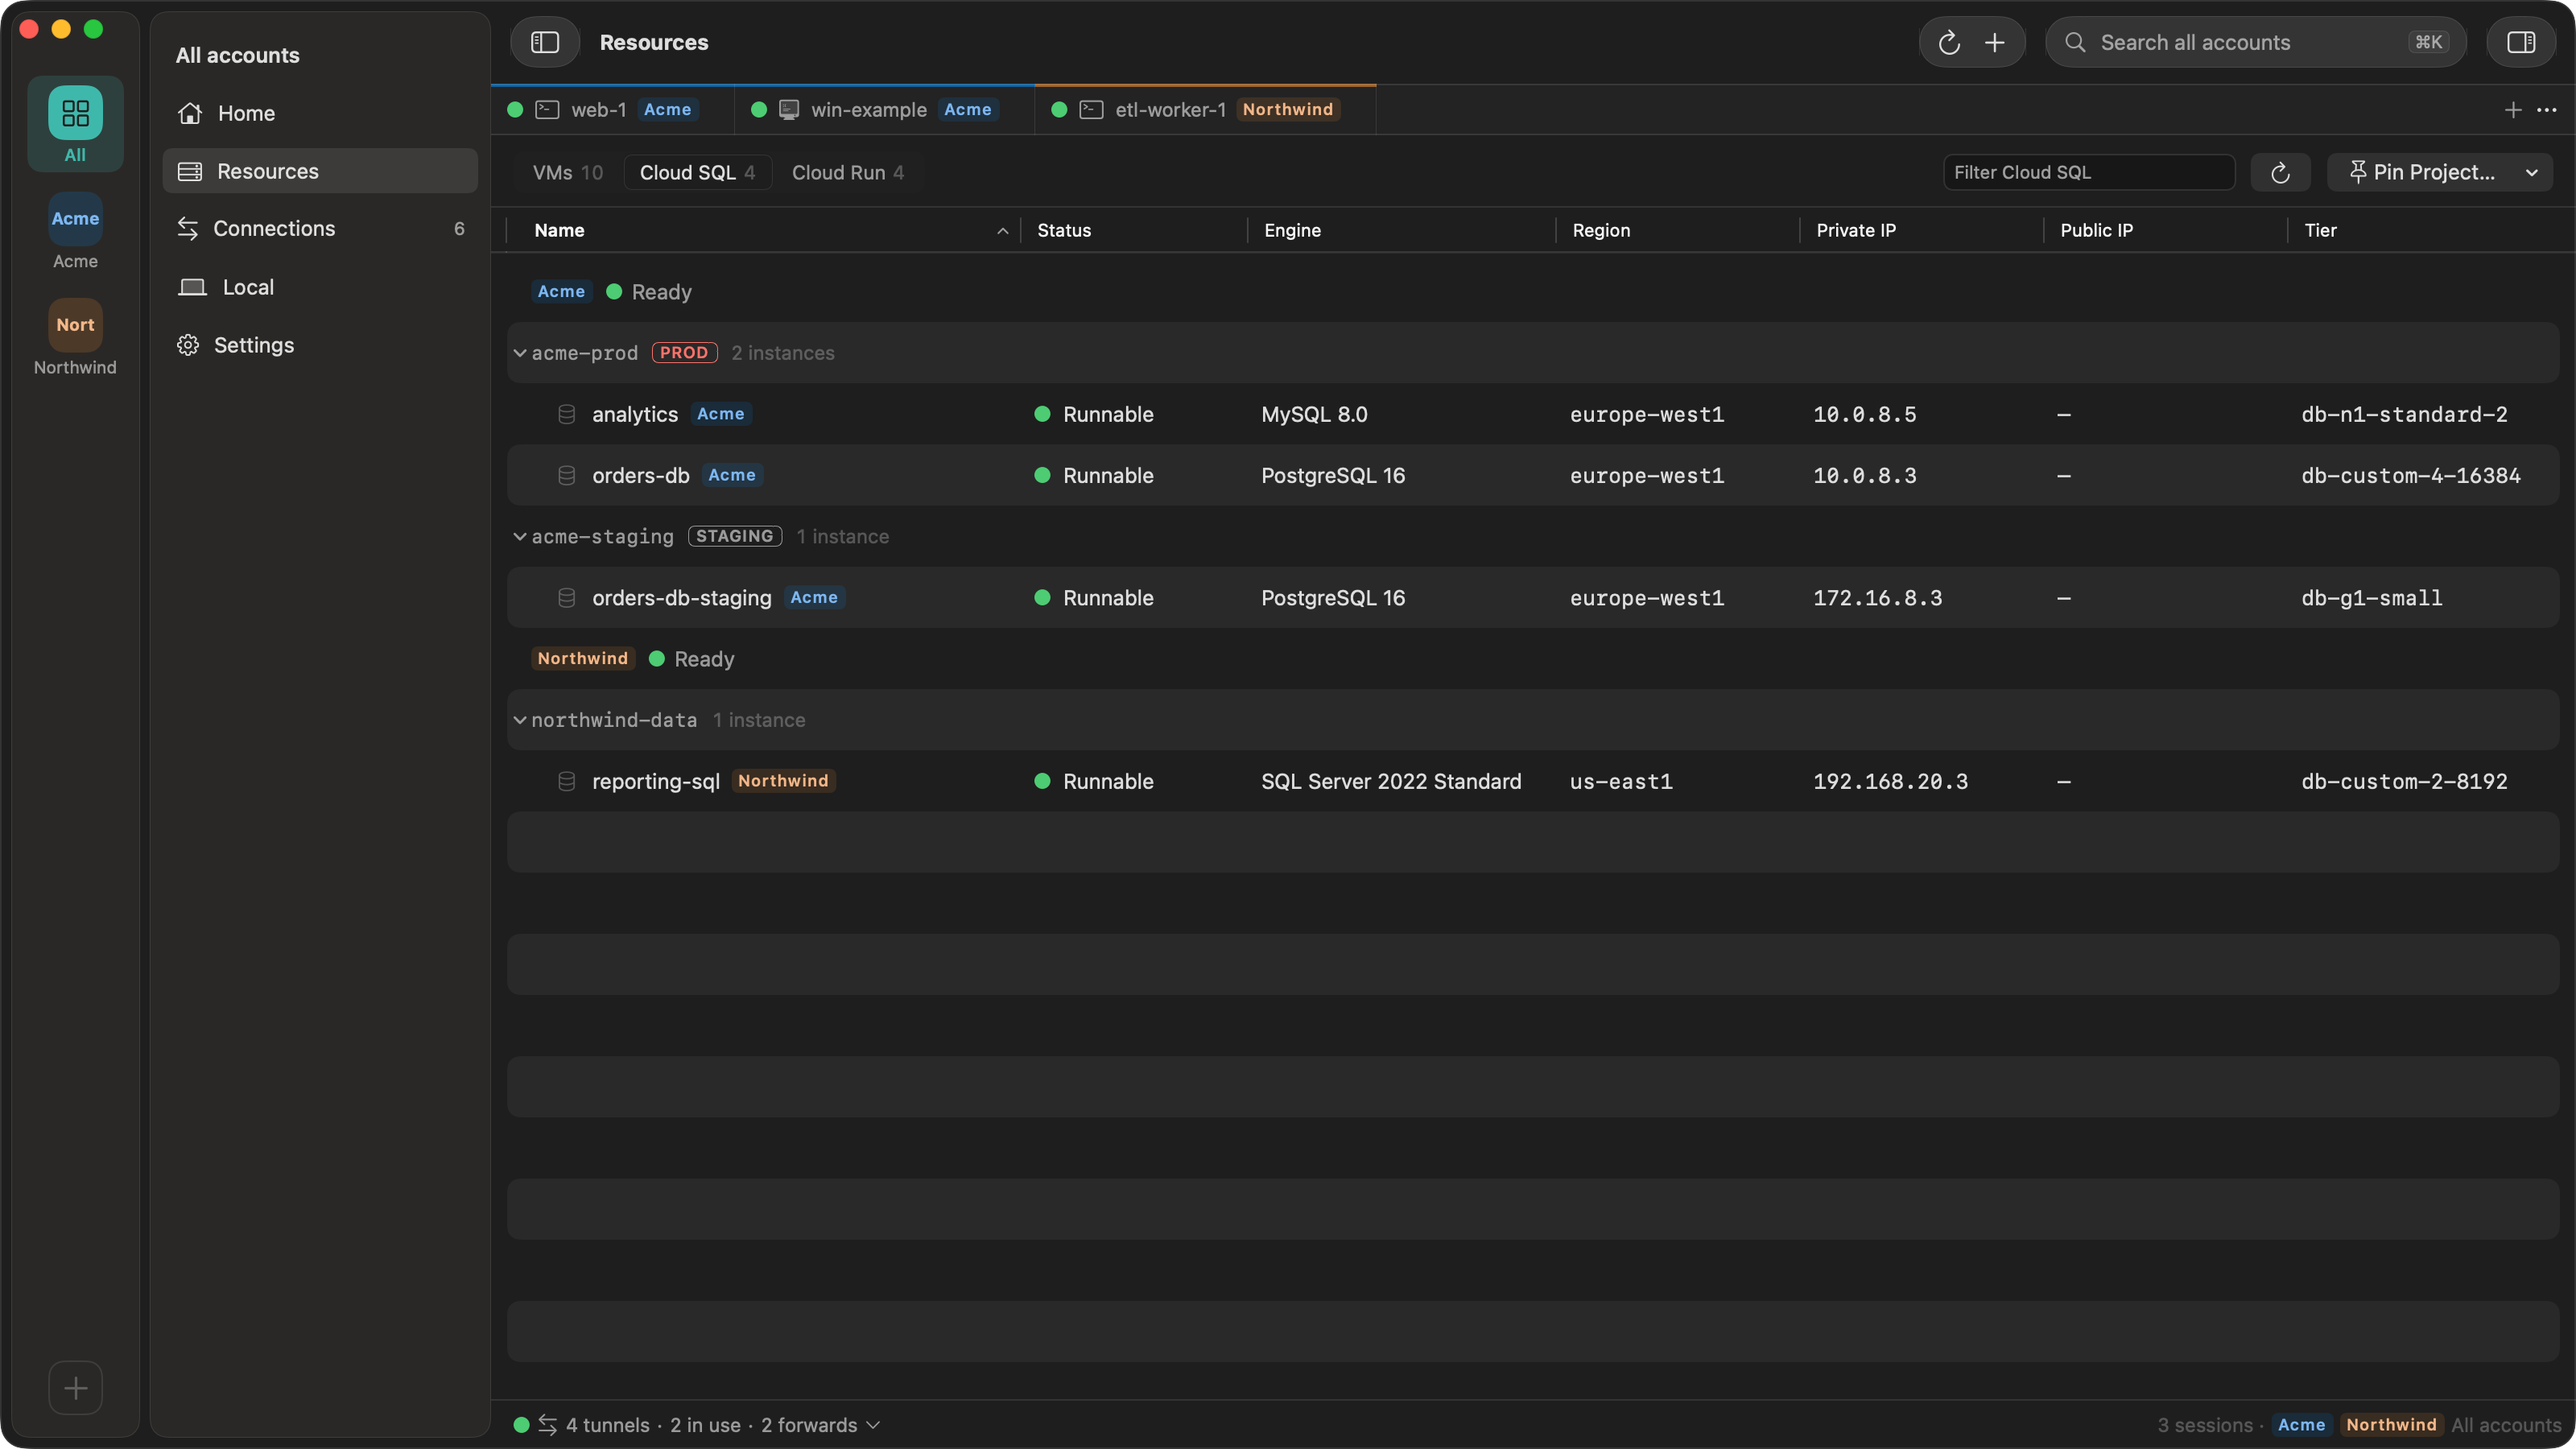
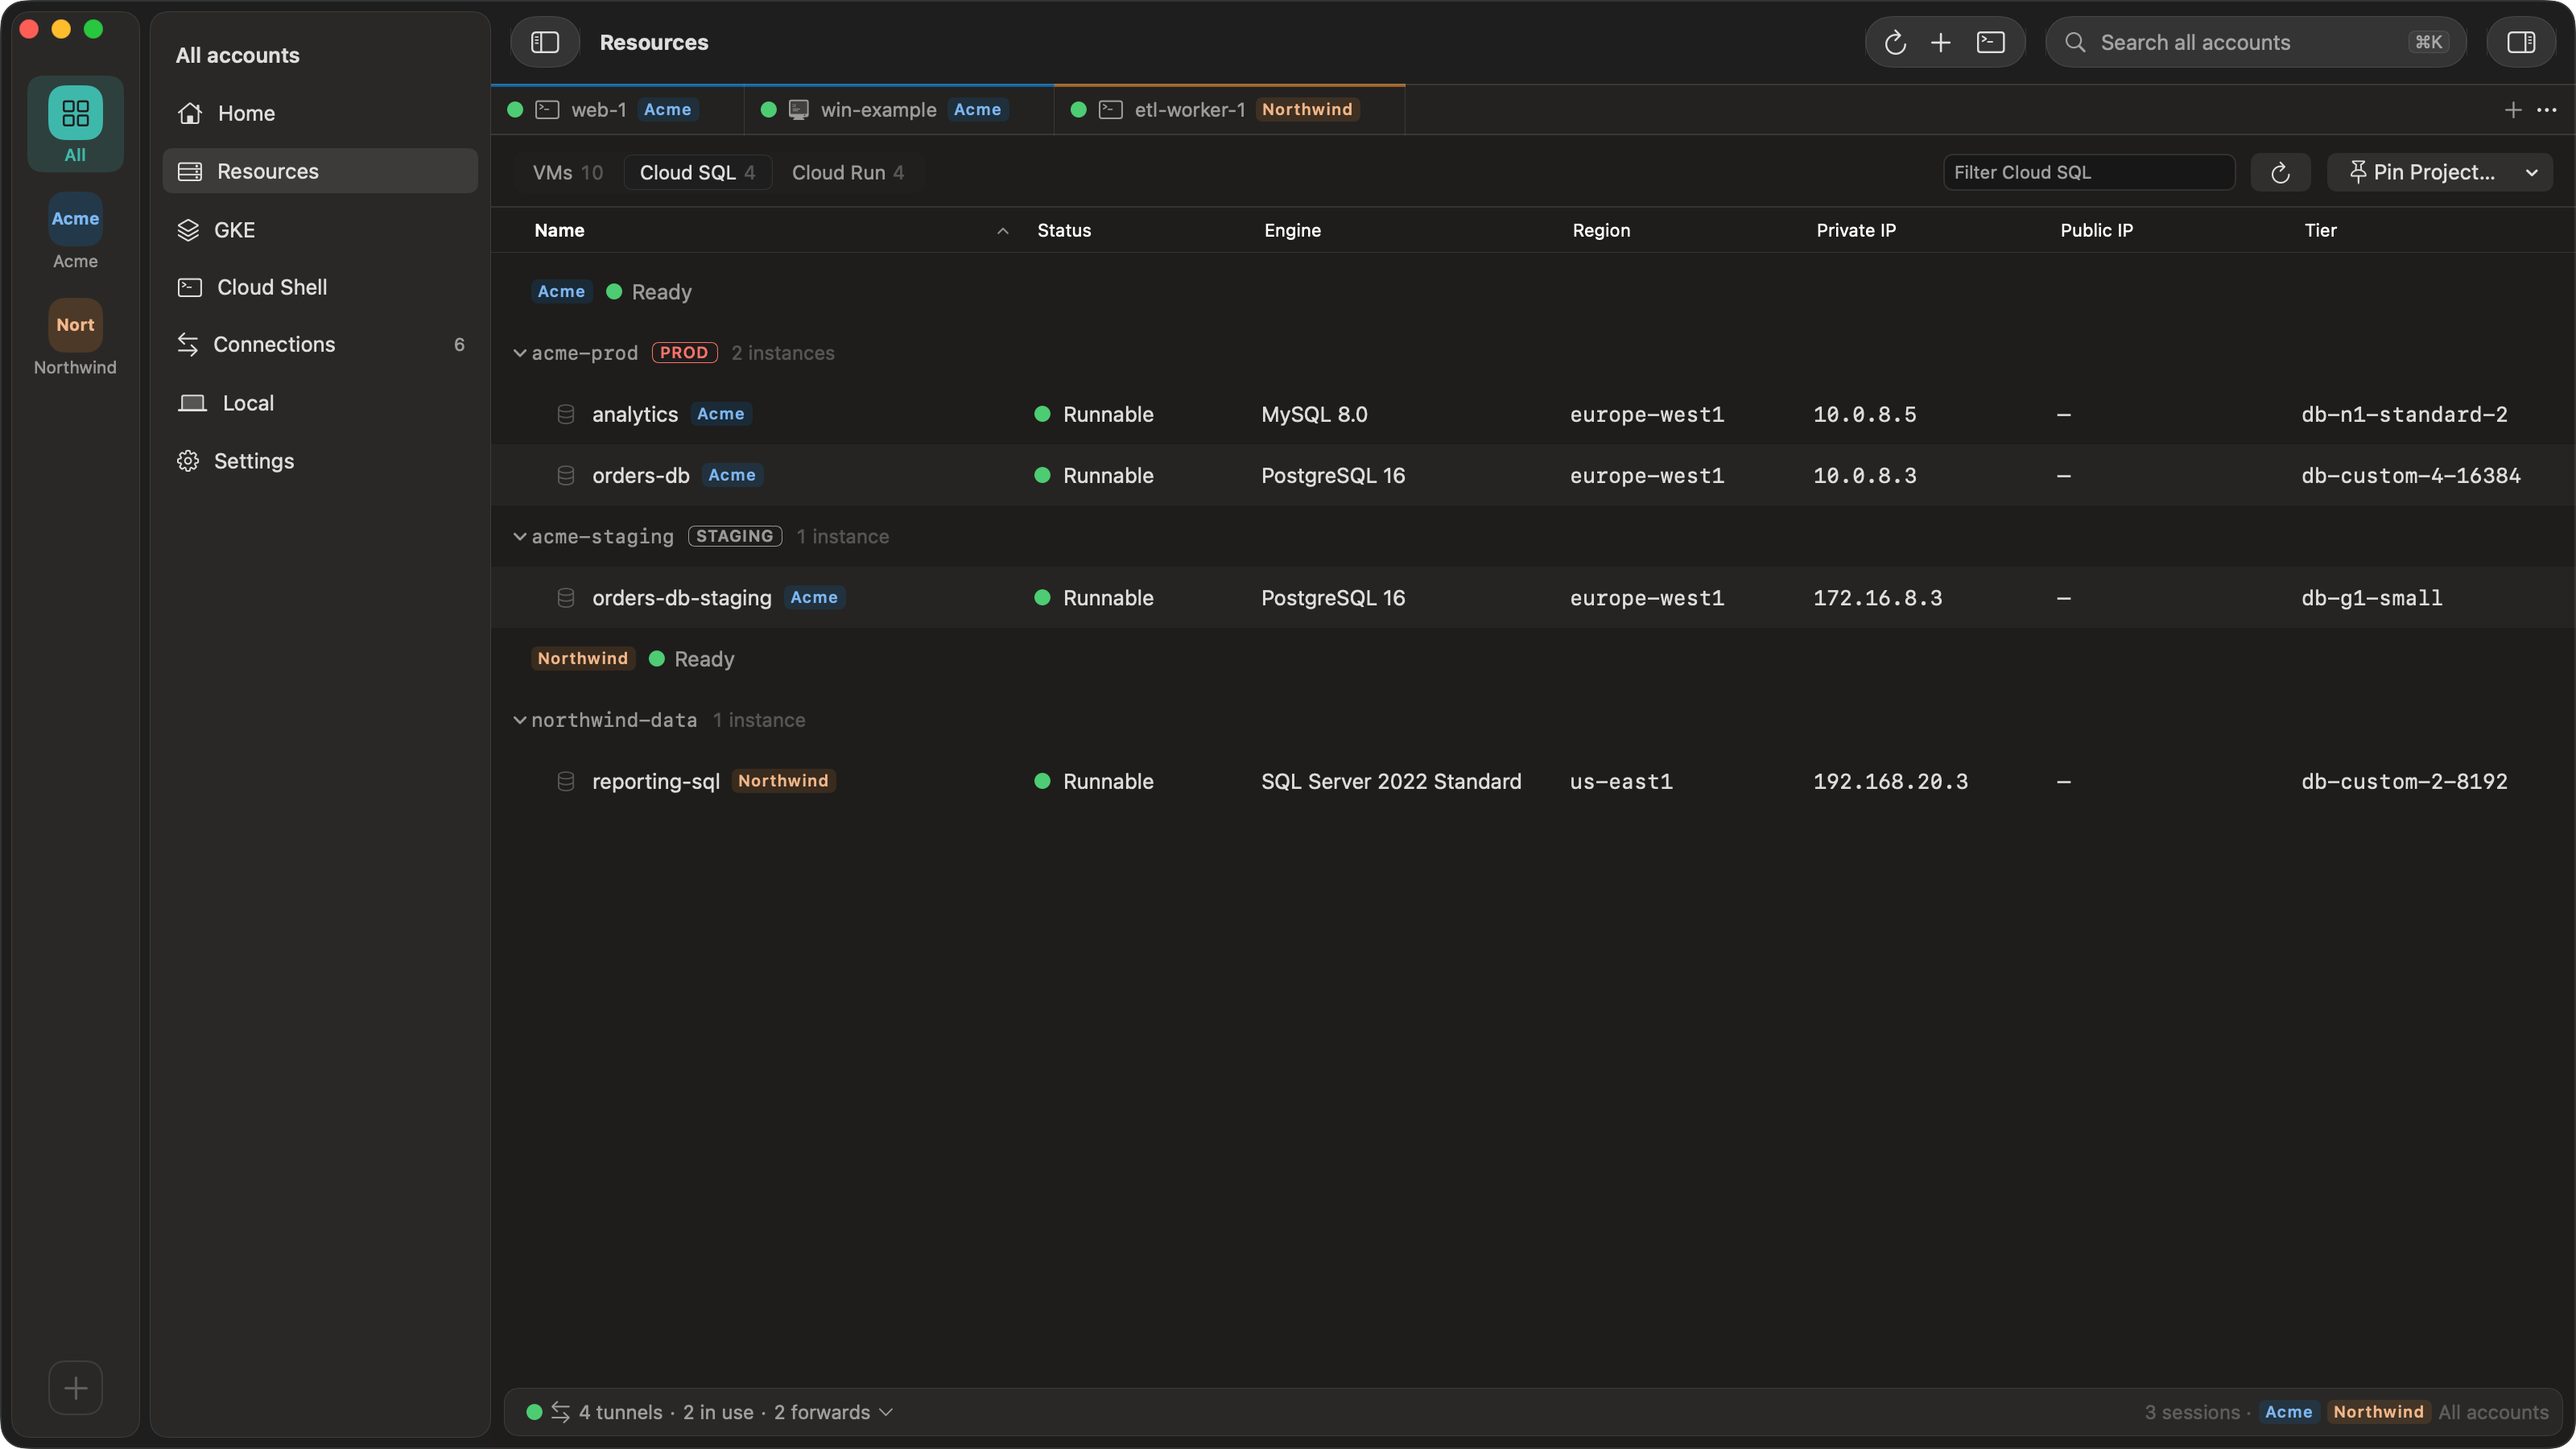
README screenshots show the 0.0.8 window with GKE and Cloud Shell in the sidebar, and a new Cloud SQL and Cloud Shell row
Re-rendered from the Debug site-shot renderer with invented Acme and Northwind data, light and dark: ssh, resources, tunnels, cloudsql, gke-pods, gke-logs, and the new cloudshell card view. The README GIFs follow in a separate commit once the clips are re-rendered.

diff --git a/README.md b/README.md
@@ -100,6 +100,20 @@ not public.
       </picture>
     </td>
   </tr>
+  <tr>
+    <td>
+      <picture>
+        <source media="(prefers-color-scheme: dark)" srcset="docs/screenshots/cloudsql-dark.png">
+        <img src="docs/screenshots/cloudsql-light.png" alt="Resources: Cloud SQL instances across projects and accounts">
+      </picture>
+    </td>
+    <td>
+      <picture>
+        <source media="(prefers-color-scheme: dark)" srcset="docs/screenshots/cloudshell-dark.png">
+        <img src="docs/screenshots/cloudshell-light.png" alt="Cloud Shell: one card per account, one running and one stopped, with Open Terminal and Browse Files">
+      </picture>
+    </td>
+  </tr>
 </table>
 
 ## Screen recordings
